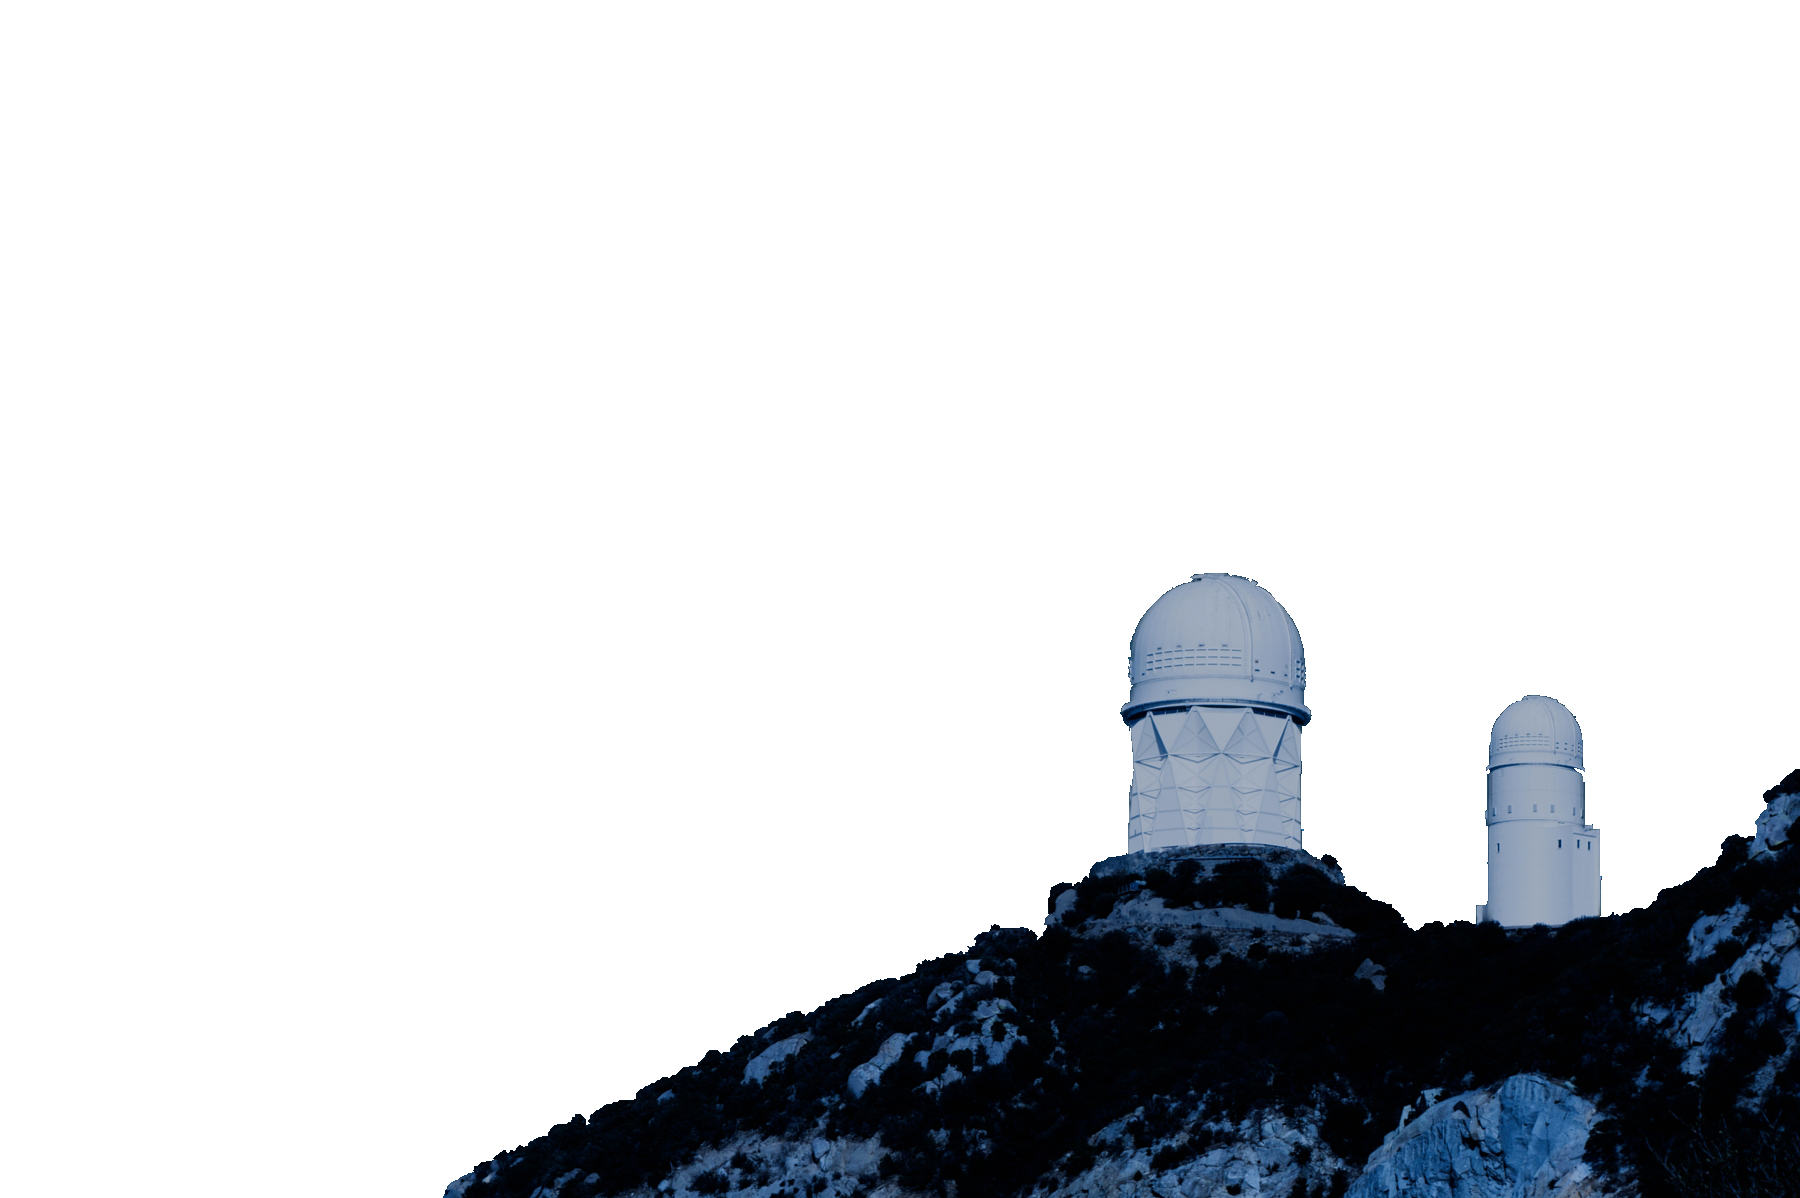
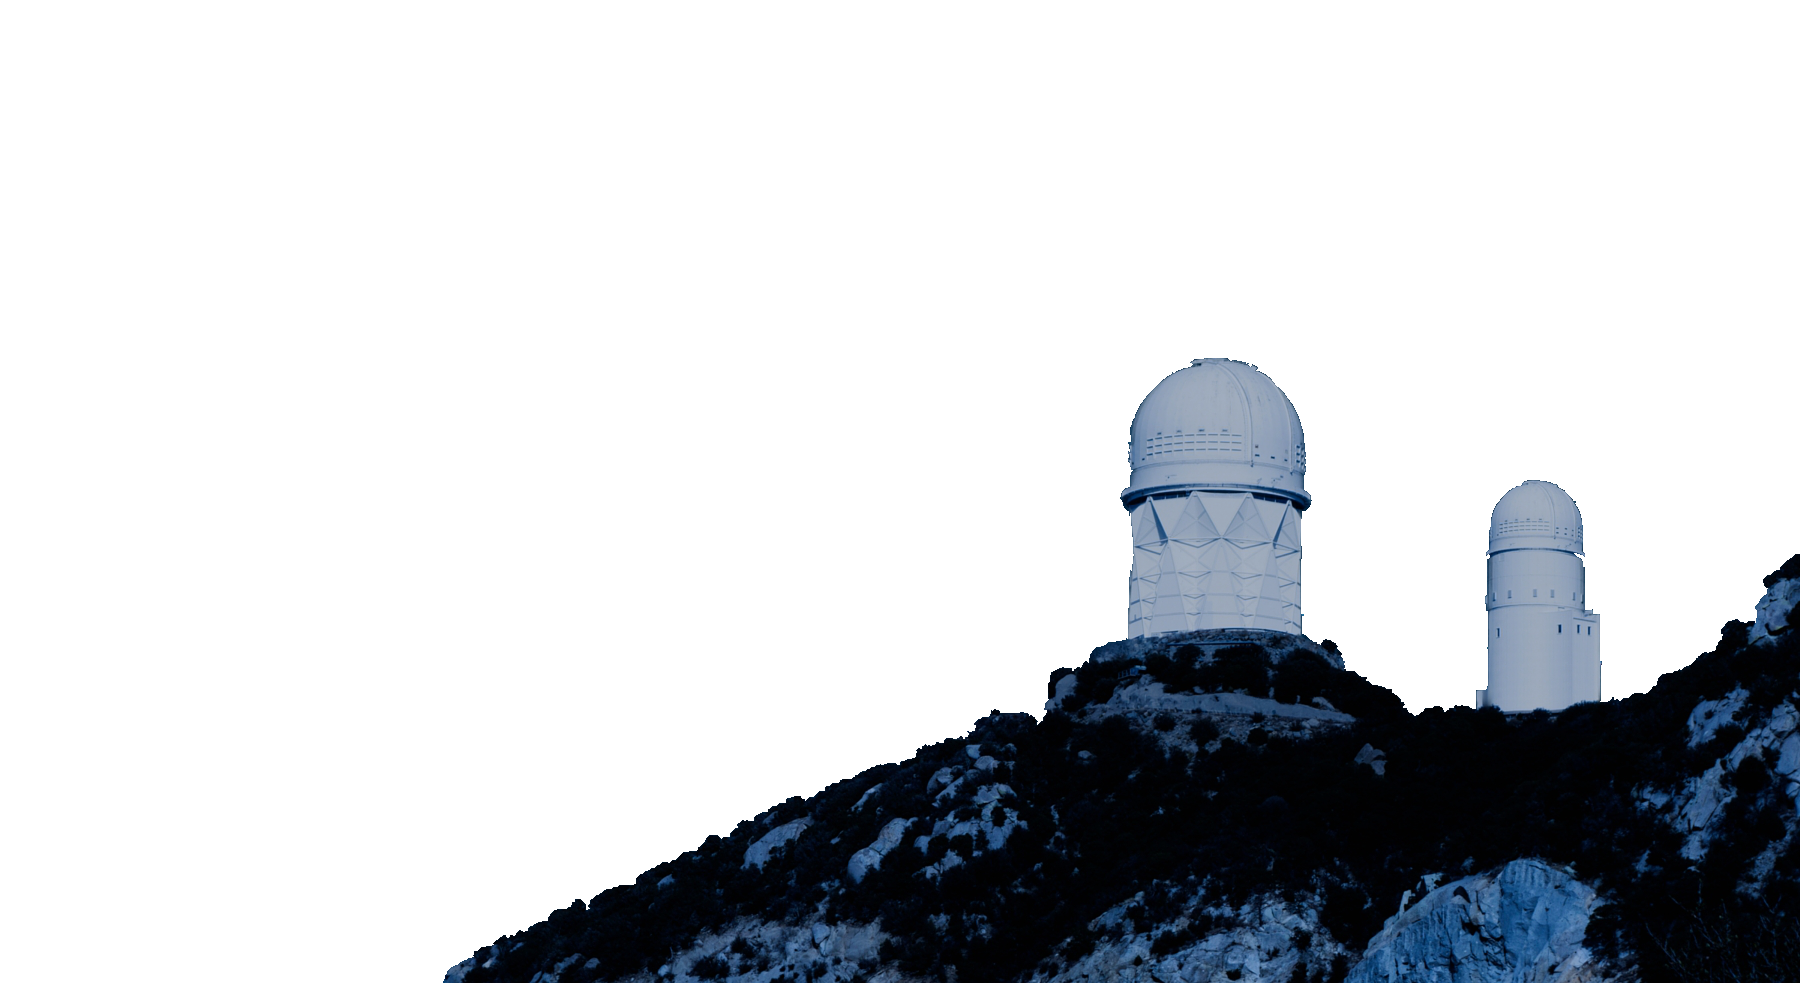
added hubble image and fixed menu styles on hover

Changed region(s): [[0.2489, 0.3662, 1.0, 1.0]]

diff --git a/src/containers/Landing.jsx b/src/containers/Landing.jsx
@@ -22,6 +22,9 @@ const Courses = styled.div `
   margin-top: 10vh;
 `;
 
+const BgContainer = styled.div`
+  position: relative;
+`;
 const Head = styled.div`
   padding-bottom: 10vw;
   background-image: url(${bgImg});
@@ -31,9 +34,16 @@ const Head = styled.div`
   animation: animatedBackground 100s linear infinite;
 `;
 
-const HubbleImage = styled.img `
-  position: absolute;
+const HubbleImage = styled.div `
+  position:absolute;
+  top:0;
+  left:0;
   width: 100%;
+  z-index:0;
+`;
+
+const Image = styled.img`
+  width:100%;
 `;
 
 const Container = styled.div`
@@ -55,6 +65,8 @@ const Title = styled.h1`
   font-size:4em;
   text-transform: uppercase;
   letter-spacing: 0.1em;
+  z-index: 1;
+  position: relative;
   ${media.desktop`
     font-size: 4em;
     `}
@@ -80,6 +92,8 @@ const Button = styled.div`
   letter-spacing: 0.3em;
   transition: 1s;
   background: rgba(255,255,255,0);
+  position:relative;
+  z-index:1;
 
   &:hover {
     transition: 1s;
@@ -124,17 +138,21 @@ const Crop = styled.div`
 
 const Landing = () => (
   <div>
-    <Head>
-      <Menu />
-      <Container>
-        <ImageLogo src={gridLogo}/>
-      </Container>
-      <div>
-        <Title>Become a Software Engineer</Title>
-        <Button>Reserve</Button>
-      </div>
-    </Head>
-
+    <BgContainer>
+      <Head>
+        <Menu/>
+        <Container>
+          <ImageLogo src={gridLogo}/>
+        </Container>
+        <div>
+          <Title>Become a Software Engineer</Title>
+          <Button>Reserve</Button>
+        </div>
+      </Head>
+    </BgContainer>
+    <HubbleImage>
+      <Image src={bgImg3} alt="hubble" />
+    </HubbleImage>
     <Info>
       <InfoParagraph>Maven is a coding bootcamp that graduates mid to senior level Software Engineers. We offer a beginners course "Apprentice" that has been designed especially for anyone wanting to take their first steps into software engineering. The course explores the keys areas to learn JavaScript, it takes you from not knowing how to program to a well versed JavaScript developer.</InfoParagraph>
     </Info>

diff --git a/src/components/Menu.jsx b/src/components/Menu.jsx
@@ -9,7 +9,6 @@ import { media } from '../utils/mediaqueries';
 
 const NavList = styled.nav`
   animation: fadeInRight .5s ease forwards;
-  animation-delay: .35s;
   position: relative;
   height: 70%;
   top: 17%;
@@ -30,15 +29,15 @@ const ListItem = styled.li`
 `;
 
 const ListLink = styled.a`
-  color:white;
-  transition: all .3 ease;
+  color:lightblue;
   padding: 10px;
   margin-top: 10px;
+  transition: all .5 ease;
 
   &:hover {
+    transition: all .5 ease;
     color: white;
     border: 1px solid white;
-    opacity: 0.5;
   }
 
   &:visited {
@@ -56,6 +55,7 @@ const Overlay = styled.div`
   opacity: ${props => props.open ? .9 : 0};
   visibility: ${props => props.open ? 'visible' : 'hidden'};
   overflow: hidden;
+  z-index: 1000;
 `;
 
 const MenuContainer = styled.div`
